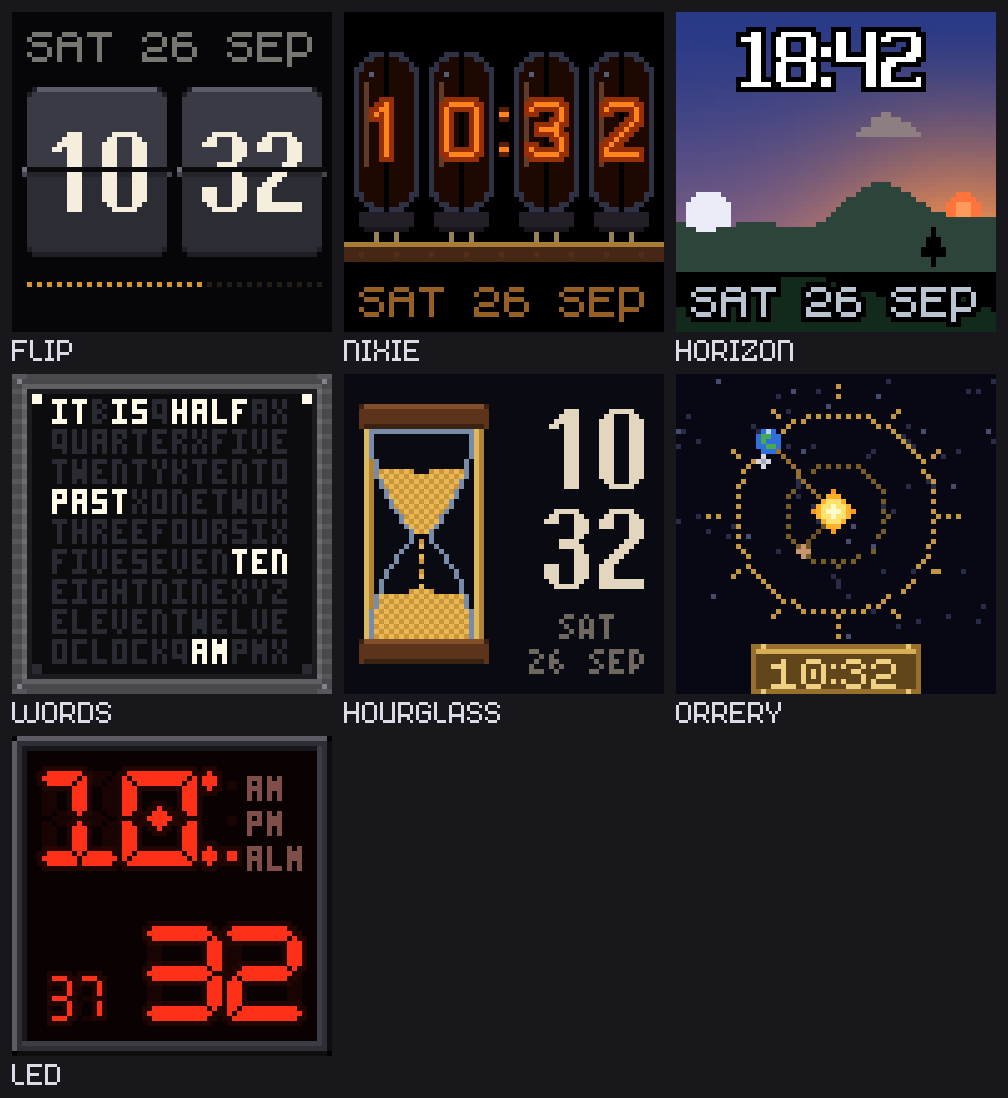
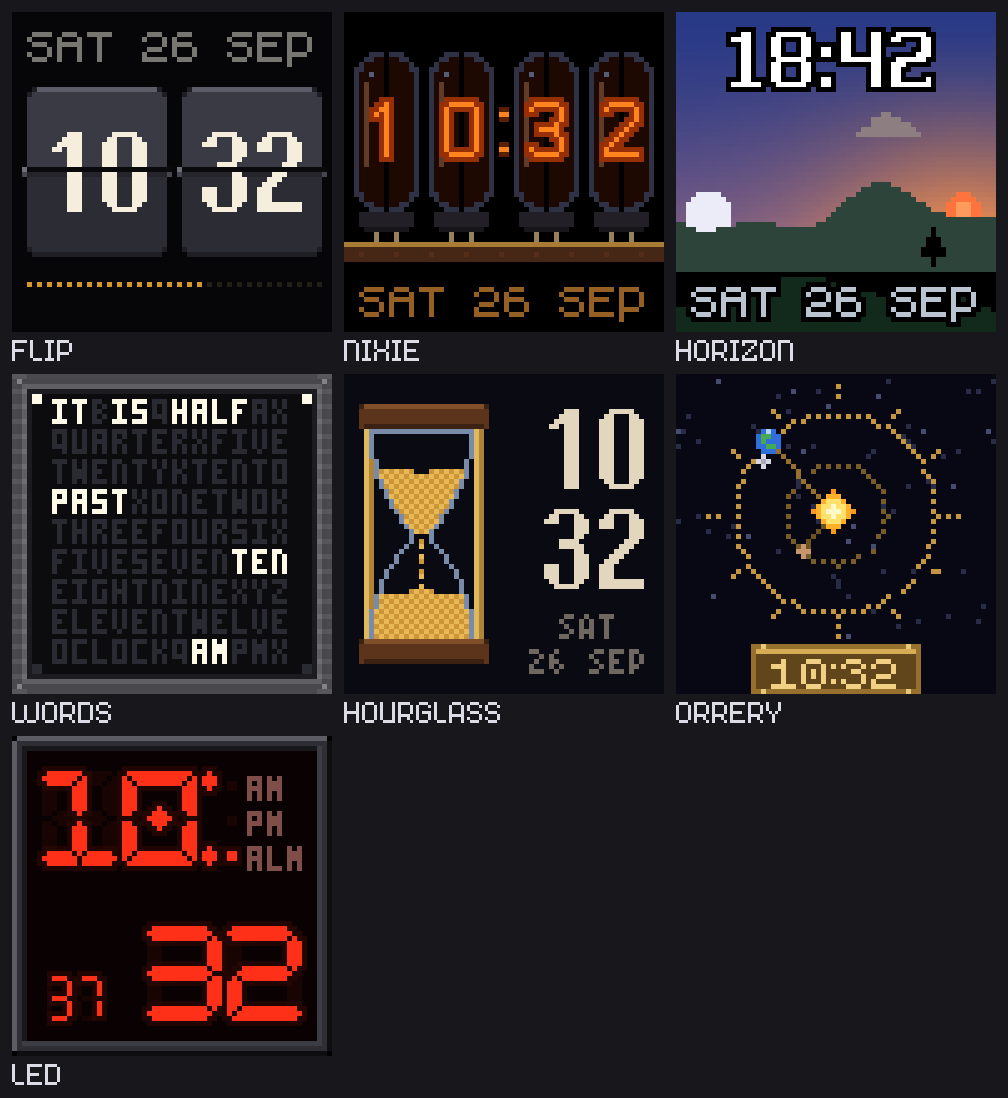
widgets: one more pixel between the horizon time's characters; widgets_smoke restores the weather location
The time in Everyday Vast Black is drawn a character at a time with a 1 px gap (outlines
first, then ink); the font and the Clock widget are unchanged. Mock and references
regenerated; verified on the device. widgets_smoke left its Greenwich test location
behind; it now puts the original location and units back.

Changed region(s): [[0.7073, 0.0, 0.9534, 0.0929]]

diff --git a/firmware/components/p64_widgets/src/face_horizon.cpp b/firmware/components/p64_widgets/src/face_horizon.cpp
@@ -229,8 +229,22 @@ void draw_horizon(Frame &frame, const Moment &m, const Options &o, const Sky &sk
   const std::string hh = o.h24 ? (m.hour < 10 ? "0" : "") + std::to_string(m.hour) : std::to_string(m.h12());
   const std::string mm = (m.minute < 10 ? "0" : "") + std::to_string(m.minute);
   const std::string time = hh + (colon_on(m, o) ? ":" : " ") + mm;
-  const int x0 = (Frame::width() - gfx::fonts::width(*big, time)) / 2;
-  const int x_end = x0 + gfx::fonts::draw(frame, *big, x0, 4, time, white, 1, &black);
+  // one extra pixel between the characters; the outlines first, then the ink, as one string draws
+  constexpr int kGap = 1;
+  const int spaced = gfx::fonts::width(*big, time) + kGap * (static_cast<int>(time.size()) - 1);
+  const int x0 = (Frame::width() - spaced) / 2, x_end = x0 + spaced;
+  for (const bool ink : {false, true}) {
+    int x = x0;
+    for (const char ch : time) {
+      const std::string one(1, ch);
+      if (ink) {
+        gfx::fonts::draw(frame, *big, x, 4, one, white, 1);
+      } else {
+        gfx::fonts::draw(frame, *big, x, 4, one, black, 1, &black);
+      }
+      x += gfx::fonts::width(*big, one) + kGap;
+    }
+  }
   if (!o.h24) gfx::fonts::draw(frame, font, x_end - gfx::fonts::width(font, m.meridiem()), 18, m.meridiem(), white, 1, &black);
   gfx::fonts::draw_centred(frame, font, 55, date_text(m, o.month_first), lerp({150, 160, 190}, {230, 240, 230}, light), 1, &black);
 }

diff --git a/firmware/tools/mock_clock_faces.py b/firmware/tools/mock_clock_faces.py
@@ -824,8 +824,19 @@ def draw_horizon(m, o, lat=40.0, lon=0.0, tz=0.0, year=2026, cover=0, precip="")
     big = load_font("everyday-vast-black")  # the time, at its native 11 px
     hh = f"{m.hour:02d}" if o.h24 else str(m.h12())
     time_text = f"{hh}:{m.minute:02d}" if colon_on(m, o) else f"{hh} {m.minute:02d}"
-    x0 = (W - text_width(big, time_text)) // 2
-    x_end = x0 + draw_text(frame, big, x0, 4, time_text, (255, 255, 255), 1, outline=(0, 0, 0))
+    # one extra pixel between the characters; the outlines first, then the ink, as one string draws
+    gap = 1
+    spaced = text_width(big, time_text) + gap * (len(time_text) - 1)
+    x0 = (W - spaced) // 2
+    x_end = x0 + spaced
+    for ink in (False, True):
+        x = x0
+        for ch in time_text:
+            if ink:
+                draw_text(frame, big, x, 4, ch, (255, 255, 255), 1)
+            else:
+                draw_text(frame, big, x, 4, ch, (0, 0, 0), 1, outline=(0, 0, 0))
+            x += text_width(big, ch) + gap
     if not o.h24:
         draw_text(frame, font, x_end - text_width(font, m.meridiem()), 18, m.meridiem(), (255, 255, 255), 1, outline=(0, 0, 0))
     draw_centred(frame, font, 55, m.date(o.month_first), lerp((150, 160, 190), (230, 240, 230), light), 1, outline=(0, 0, 0))

diff --git a/firmware/tests/device/widgets_smoke.py b/firmware/tests/device/widgets_smoke.py
@@ -235,7 +235,9 @@ def main():
     settings(base, {"show": {"main_state": original["show"]["main_state"], "auto_swap_seconds": original["show"]["auto_swap_seconds"],
                              "clock_overlay": {"enabled": original["show"]["clock_overlay"]["enabled"]}},
                     "widgets": {"widget": original["widgets"]["widget"], "interlude_minutes": original["widgets"]["interlude_minutes"],
-                                "interlude_random_clock_face": original["widgets"]["interlude_random_clock_face"]}})
+                                "interlude_random_clock_face": original["widgets"]["interlude_random_clock_face"]},
+                    # the weather location too: the Greenwich test location used to stay behind (2026-10-01)
+                    "weather": {k: original["weather"][k] for k in ("location_set", "latitude", "longitude", "units")}})
     from api_smoke import failures
     print("widgets smoke: %d failures" % failures)
     return 1 if failures else 0

diff --git a/firmware/docs/PROGRESS.md b/firmware/docs/PROGRESS.md
@@ -1103,6 +1103,14 @@ shows where things stand. Spec: `docs/spec/p64-spec.md`. Design: `architecture.m
   names at a character boundary too. `tests/host/run.py` no longer dies printing a
   failing case's raw bytes (it decodes and prints with replacement). Device: the history
   decodes, `widgets_smoke` and `api_smoke` 0 failures (largest block 34.8 KB).
+- 2026-10-01, the horizon's time spaced (prompt p064): one more pixel between the
+  characters of the time (Everyday Vast Black), drawn a character at a time in the face,
+  the outlines first and then the ink so it matches a whole-string draw; the font itself
+  and the Clock widget are unchanged; the widest time is 43 px. Mock and references
+  regenerated; host tests 188 cases, 49 references exact; on the device the frame is the
+  mock pixel for pixel. Found on the way: `widgets_smoke` set the weather location to
+  Greenwich and never put it back (how the device came to show Greenwich's sky); it now
+  restores the location and the units.
 - Remaining: the acceptance measurements that need instruments (camera at 240 fps, a
   power meter), a 12 h and a 24 h soak (`soak.py --minutes 720` when the device can be
   left alone), and the hands-on checks (taps, rotation direction, BOOT hold, the Photo
